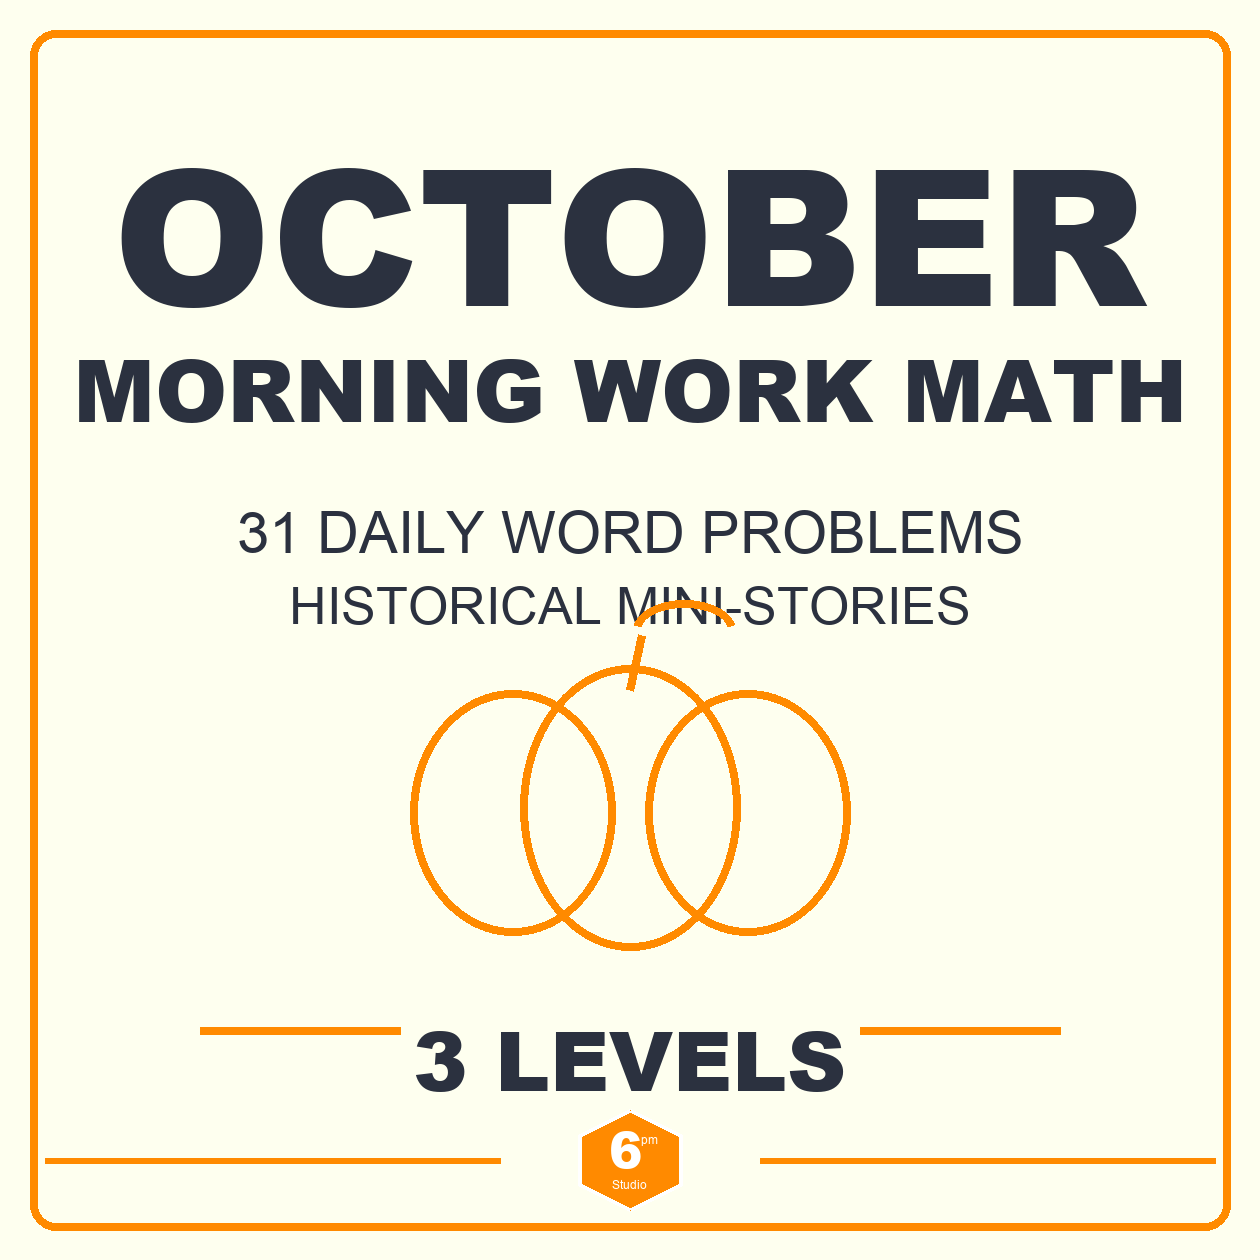
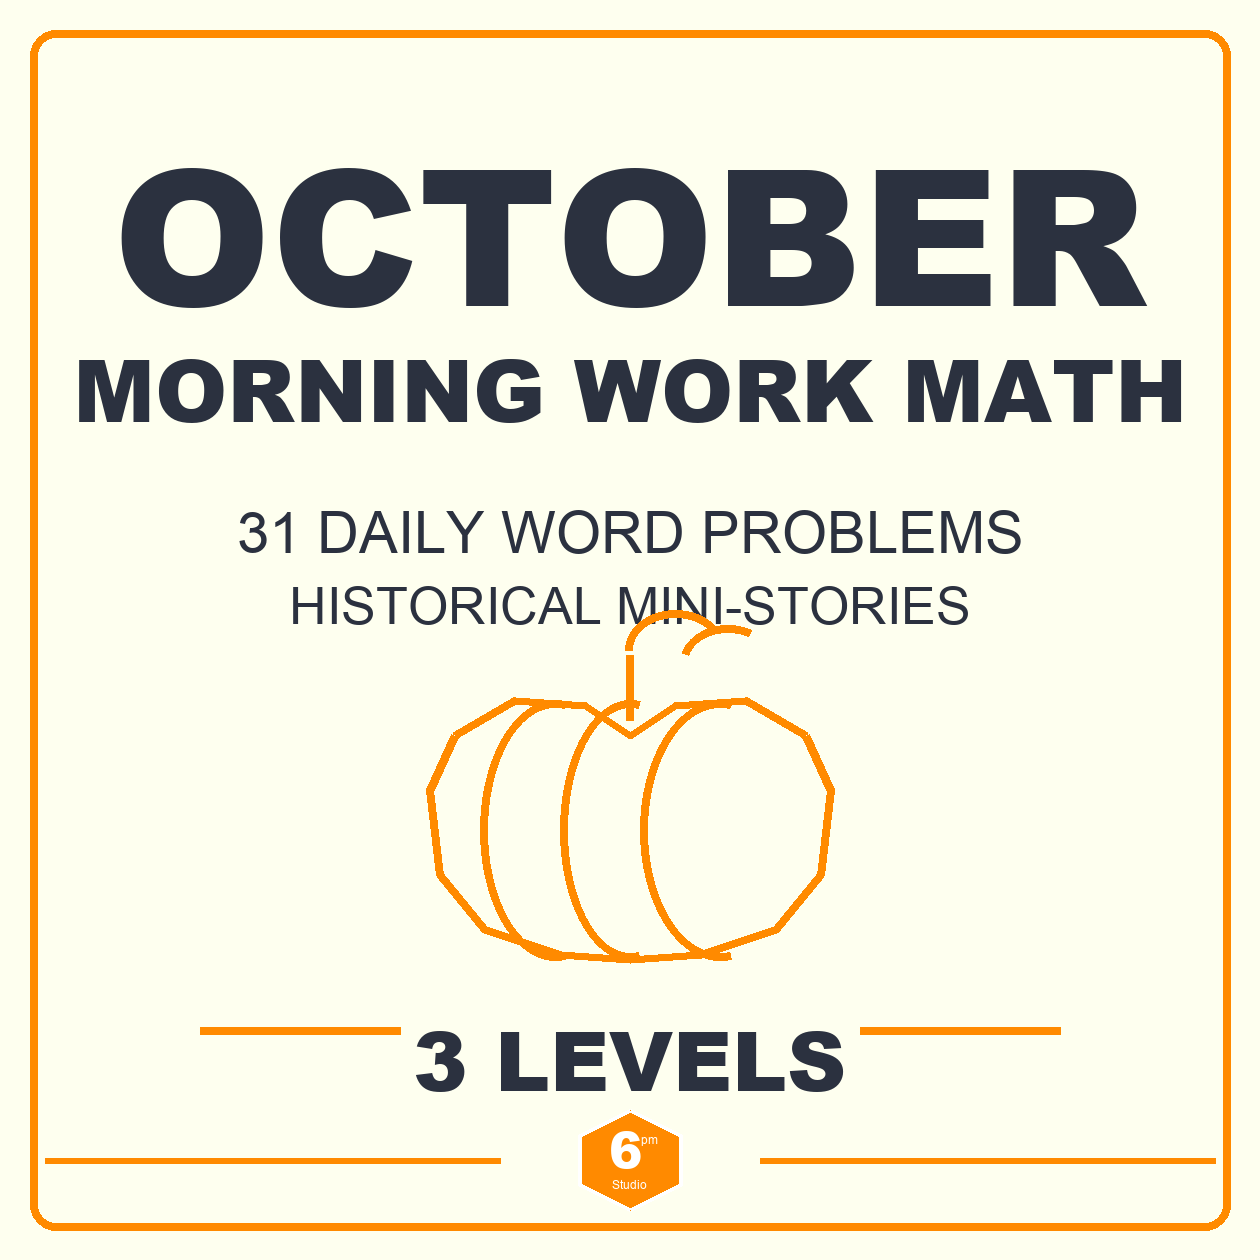
Clarify pumpkin line-art on monthly cover

Changed region(s): [[0.3095, 0.4643, 0.681, 0.7738]]

diff --git a/scripts/generate_monthly_thumbnails.py b/scripts/generate_monthly_thumbnails.py
@@ -75,14 +75,27 @@ def footer(canvas):
 
 
 def pumpkin_doodle(canvas):
-    """Draw the compact three-lobed pumpkin used by the reference cover."""
+    """Draw a recognisable, outline-only pumpkin for the monthly cover.
+
+    The reference uses a simple classroom doodle, but the previous three
+    overlapping ellipses read as a generic flower.  This version makes the
+    pumpkin silhouette explicit: a broad flattened body, four visible ribs,
+    a curved stem, and a small leaf.  All marks stay in the reference orange
+    stroke and the interior remains unfilled.
+    """
     draw = ImageDraw.Draw(canvas)
     stroke = 8
-    draw.ellipse((410, 690, 615, 935), outline=ORANGE, width=stroke)
-    draw.ellipse((520, 665, 740, 950), outline=ORANGE, width=stroke)
-    draw.ellipse((645, 690, 850, 935), outline=ORANGE, width=stroke)
-    draw.line((630, 690, 642, 635), fill=ORANGE, width=stroke)
-    draw.arc((633, 600, 735, 660), 190, 350, fill=ORANGE, width=stroke)
+    body = [(430, 790), (455, 735), (515, 700), (585, 705),
+            (630, 735), (675, 705), (745, 700), (805, 735),
+            (830, 790), (820, 875), (775, 930), (700, 955),
+            (630, 960), (560, 955), (485, 930), (440, 875)]
+    draw.line(body + [body[0]], fill=ORANGE, width=stroke, joint="curve")
+    draw.arc((480, 700, 630, 960), 82, 278, fill=ORANGE, width=stroke)
+    draw.arc((560, 700, 700, 960), 82, 278, fill=ORANGE, width=stroke)
+    draw.arc((640, 700, 800, 960), 82, 278, fill=ORANGE, width=stroke)
+    draw.line((630, 720, 630, 655), fill=ORANGE, width=stroke)
+    draw.arc((625, 610, 725, 690), 180, 330, fill=ORANGE, width=stroke)
+    draw.arc((680, 625, 775, 700), 195, 300, fill=ORANGE, width=stroke)
 
 
 def centered(draw, text, y, size, max_width=1120, fill=NAVY, bold=True):
